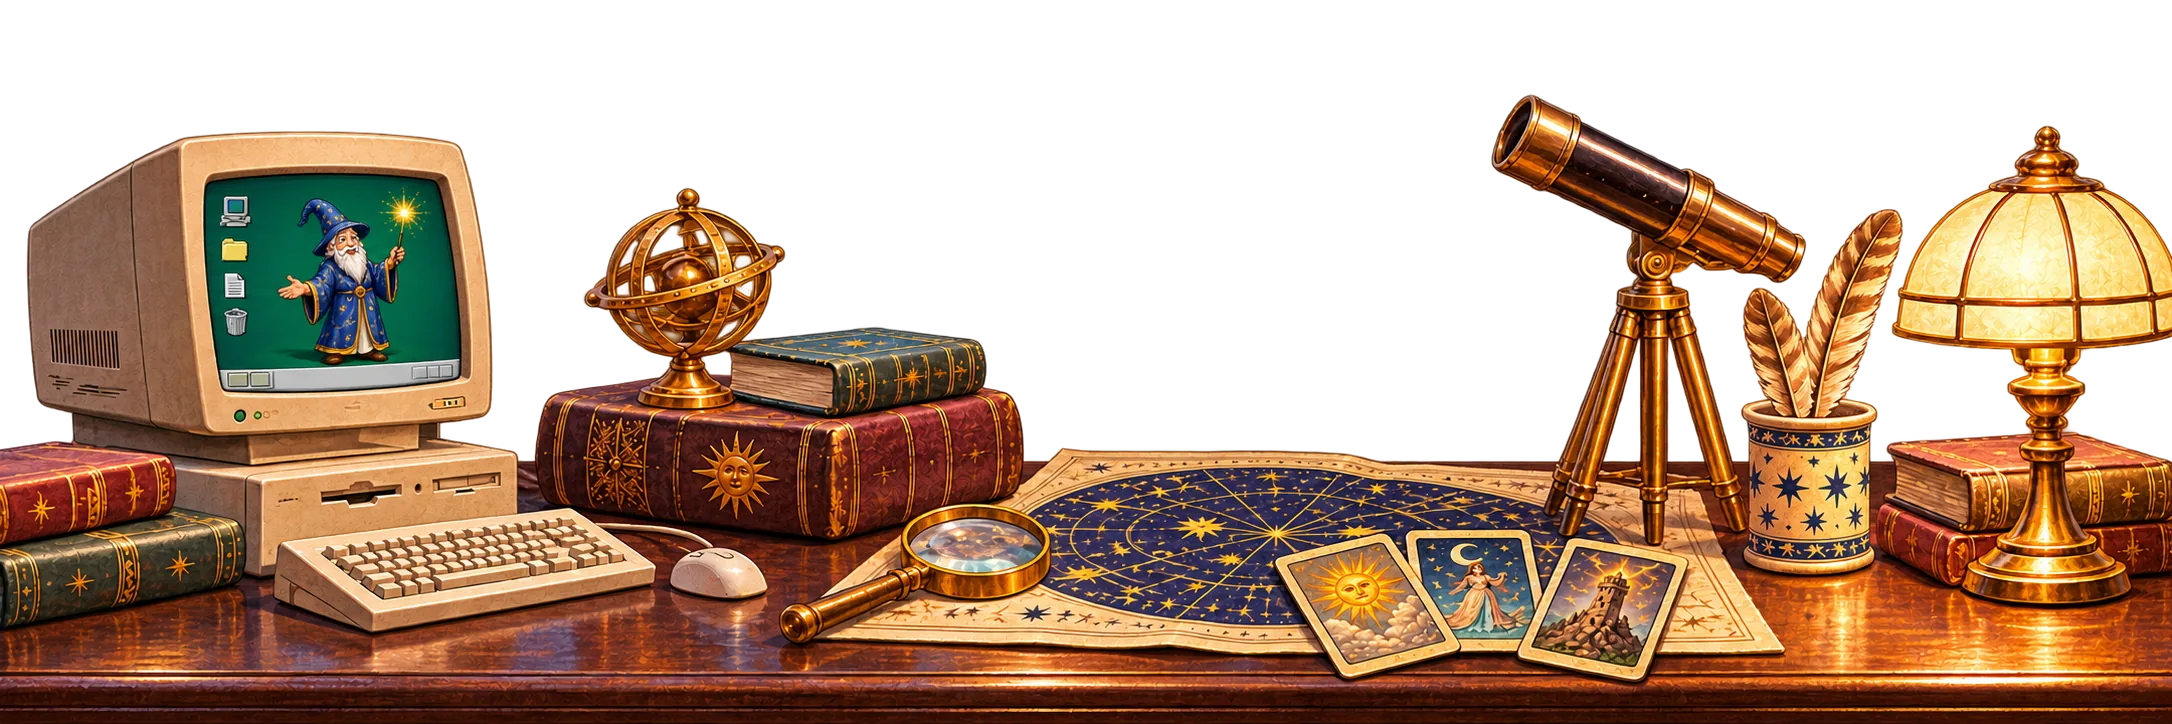
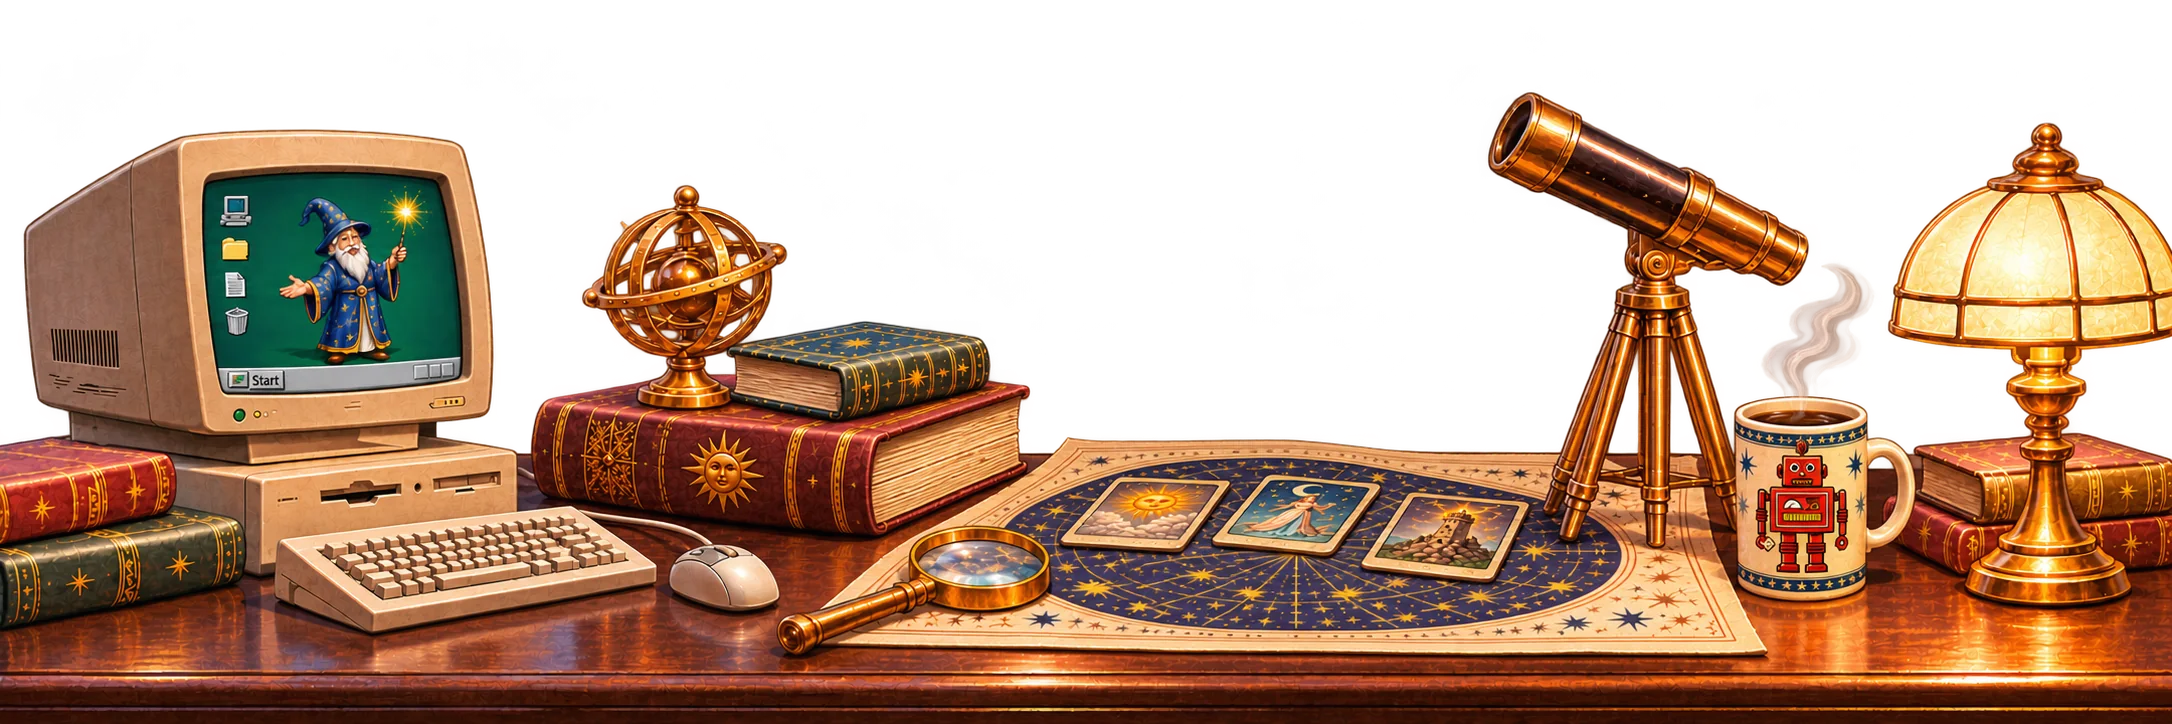
Homepage: new right bookshelf and desk scene artwork
Claude-Session: https://claude.ai/code/session_017vhBA398Brb4pmE5LmrpwB

Changed region(s): [[0.0, 0.1215, 1.0, 1.0], [0.0, 0.4558, 0.0617, 0.547], [0.0, 0.2735, 0.0308, 0.3343]]

diff --git a/site/index.html b/site/index.html
@@ -130,7 +130,7 @@ footer { position: relative; z-index: 3; padding: 12px 24px 18px; text-align: ce
         </div>
       </article></div>
     </main>
-    <img class="shelf right" src="/assets/home/shelf-right.webp" width="620" height="1915" alt="">
+    <img class="shelf right" src="/assets/home/shelf-right.webp" width="620" height="1879" alt="">
   </div>
 
   <img class="desk" src="/assets/home/desk.webp" width="2172" height="724" alt="">
